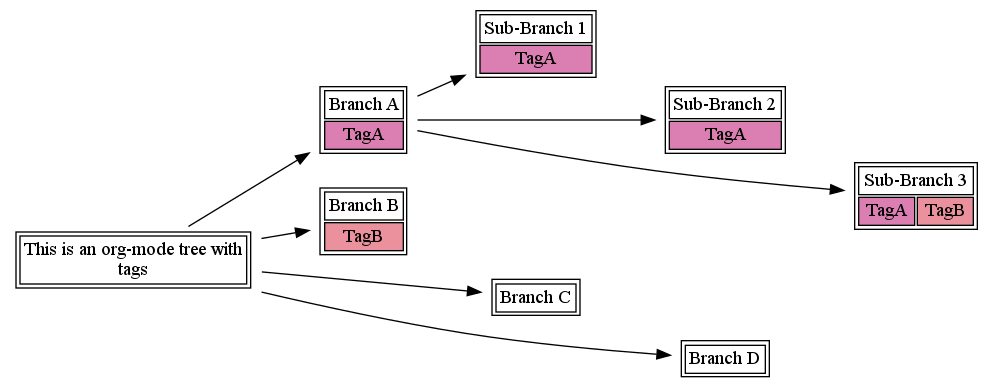
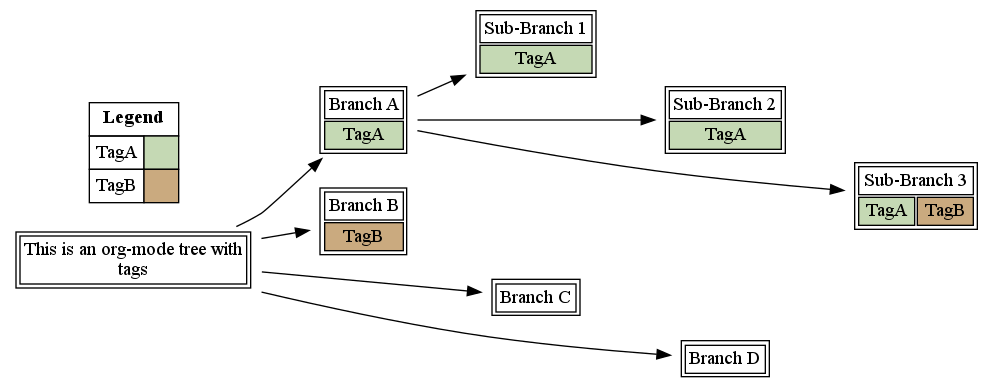
Updated docs on new node coloring.

diff --git a/README.md b/README.md
@@ -15,7 +15,7 @@ To install, add this code to your .emacs:
 (load "INSTALLPATH/org-mind-map.el")
 ```
 
-Then, run M-x org-mind-map/write within the org-mode file you would like to make a mind-map for. If all works as expected, a PDF file will be generated in the same directory as the org file.
+Then, run `M-x org-mind-map/write` within the org-mode file you would like to make a mind-map for. If all works as expected, a PDF file will be generated in the same directory as the org file.
 
 # Examples
 
@@ -85,9 +85,44 @@ Finally, by naming headlines across your org-mode file, as shown below, you can 
 
 Note that the interleaving is done based on the exact text of the headline, so these have to exactly match (including tags).
 
+
+## Selective Colors
+   If you would like a node to show up as a specific color, you can add the `:OMM-COLOR:` and `:OMM-LEGEND:` properties to a node. The node will be colored in, and a legend entry item will be added, as shown below:
+
+```Org
+* This is an org-mode tree with tags
+:PROPERTIES:
+:OMM-COLOR: GREEN
+:OMM-LEGEND: Legend entry
+:END:
+
+** Branch A 
+*** Sub-Branch 1 
+*** Sub-Branch 2 
+*** Sub-Branch 3 
+
+** Branch B
+
+
+** Branch C 
+** Branch D 
+* This is an org-mode tree that interleaves :TagOne:
+** Branch E
+*** Sub-Branch 3 :TagTwo:
+
+*** Sub-Branch 3 :TagOne:
+** Branch B
+** Branch C
+```
+
+ this results in this file:
+
+![example-4.org.png](example-4.org.png)
+
 # Other Options
 
-Customize the org-mind-map/engine variable to specify additional layout options (e.g. radial layouts where root nodes are in the center of the graph), and customize org-mind-map/rankdir to specify if the chart is going up-and-down or left-to-right.
+Customize the `org-mind-map/engine` variable to specify additional layout options (e.g. radial layouts where root nodes are in the center of the graph), and customize `org-mind-map/rankdir` to specify if the chart is going up-and-down or left-to-right.
 
 ## Selective Export
-   Use the command org-mind-map/write-tree to just create a map from the current tree.
+   Use the command `org-mind-map/write-tree` to just create a map from the current tree.
+
